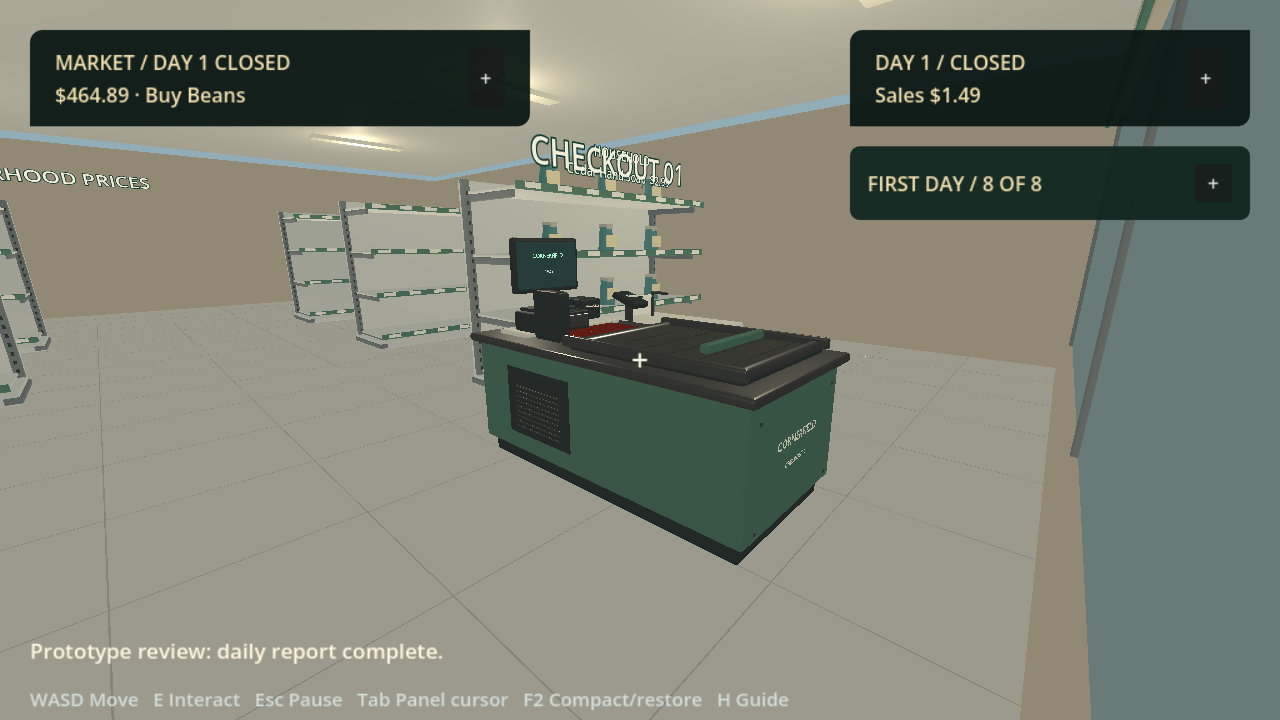
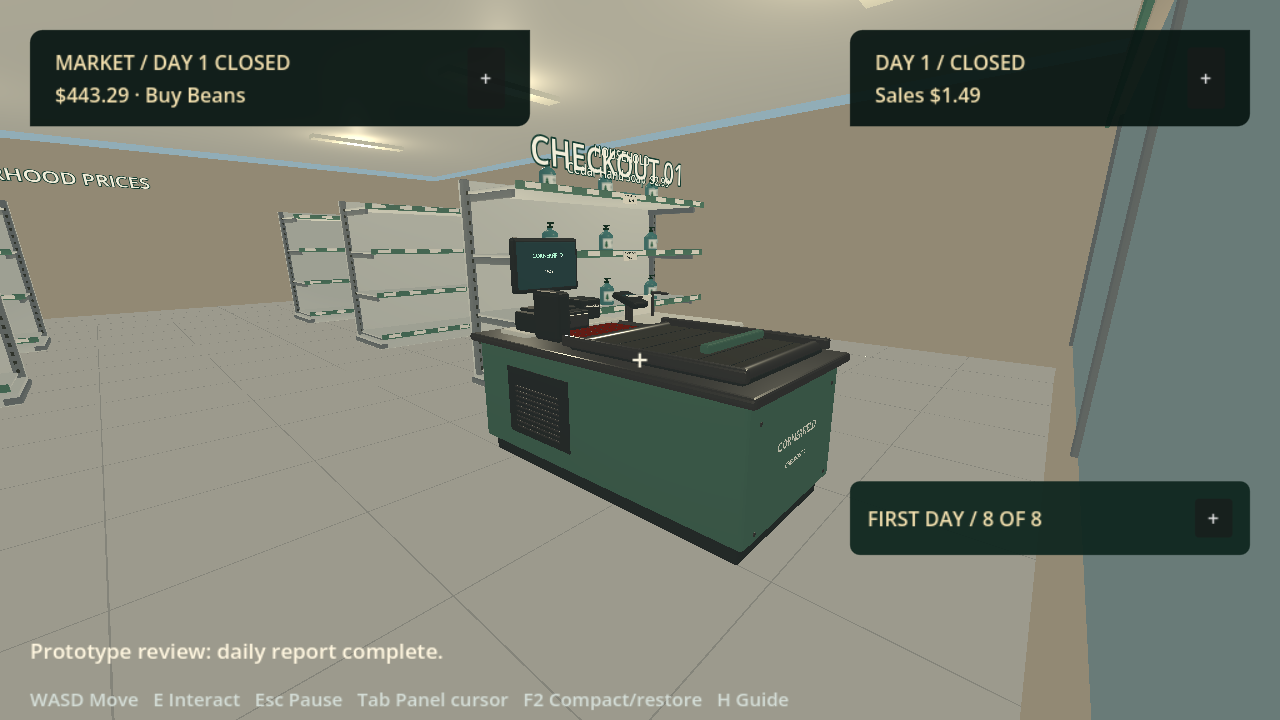
Move the first-day guide off overhead shelf signs
The guide panel sat top right, exactly where overhead shelf signs
appear, and covered "Morning Oats $2.49" in the main aisle view. It now
sits lower right above the interaction prompt row, still stacking below
the day report when one is shown. A layout check (278 total) confirms
it stays in the lower part of the screen, clear of the prompt, message
line and expanded dashboard at 100% and 125% UI scale.

Scripted captures disable _process, so they now re-run the HUD layout
before every frame; earlier frames silently kept a pre-resize layout.
All versioned preview frames are refreshed.

diff --git a/docs/CLAUDE_HANDOFF.md b/docs/CLAUDE_HANDOFF.md
@@ -137,7 +137,7 @@ Default keys are listed below. Every gameplay key can be rebound under Pause →
 | Enter / keypad Enter / Space in panel mode | Minimize/restore the focused panel |
 | − / + panel button | Minimize/restore an individual panel |
 
-The dashboard starts compact but retains day, store status, cash and selected goods. Entering panel mode focuses its button, releases the mouse and disables player movement/gameplay shortcuts. **Store time continues in panel mode.** Esc pauses the game and exits panel mode safely. Tab back to movement releases GUI focus. In the pause menu, Tab retains normal menu-navigation behavior.
+The dashboard starts compact but retains day, store status, cash and selected goods. The guide panel sits lower right above the prompt row (below the report when one is shown) so overhead shelf signs stay visible; scripted captures must call `_layout_hud()` because they disable `_process`. Entering panel mode focuses its button, releases the mouse and disables player movement/gameplay shortcuts. **Store time continues in panel mode.** Esc pauses the game and exits panel mode safely. Tab back to movement releases GUI focus. In the pause menu, Tab retains normal menu-navigation behavior.
 
 The latest keyboard pass is in `store.gd::_input()` and `_focus_panel()`, with regression checks in `panel_tests.gd`. Do not accidentally turn Tab into ordinary focus traversal during gameplay and lose the exit-to-movement behavior.
 

diff --git a/README.md b/README.md
@@ -30,7 +30,7 @@ The local portable build is `builds/CornerfieldMarket-Prototype.zip`. Extract an
 
 ## Play a store day
 
-A first-day guide shows the next useful action and marks Receiving, the matching shelf or Checkout 01 when relevant. It adapts to saved progress and shelf reassignment. **H** hides/shows it; the pause menu remembers your preference. It does not lock normal gameplay and disappears after day one.
+A first-day guide shows the next useful action and marks Receiving, the matching shelf or Checkout 01 when relevant. It adapts to saved progress and shelf reassignment. **H** hides/shows it; the pause menu remembers your preference. It sits in the lower right, above the interaction prompt, so overhead shelf signs stay visible; a day report pushes it lower. It does not lock normal gameplay and disappears after day one.
 
 1. **1 / 2 / 3 / 4** selects beans, oats, hand soap or honey. **B** orders a twelve-unit case ($8.40 / $13.20 / $15.00 / $21.60). Delivery takes four seconds.
 2. Walk to **Receiving**, look toward the table and press **E** to collect the case.

diff --git a/TODO.md b/TODO.md
@@ -50,6 +50,7 @@ Runtime: **standalone Godot**. Modeling: **Houdini + Blender**. Build through fi
 - [x] Add pause/settings with sensitivity, movement speed, UI scale and keyboard navigation.
 - [x] Add contextual first-day guidance for ordering, delivery, stocking, checkout and closing; follow reassigned shelves and resumed progress.
 - [x] Add a remembered guide toggle and destination marker without locking normal gameplay.
+- [x] Keep the first-day guide off overhead shelf signs: lower-right placement, checked at 100% and 125% UI scale.
 - [x] Add minimize/restore controls to dashboard, guide and day report; remember layouts and provide compact-all/cursor shortcuts.
 - [x] Add keyboard rebinding with conflict swaps, fixed pause/panel keys, saved preferences and live key hints.
 - [x] Expand the catalog to a fourth product, Meadow Honey: middle-row shelf, packaging, select key, routes and version-3 save migration.
